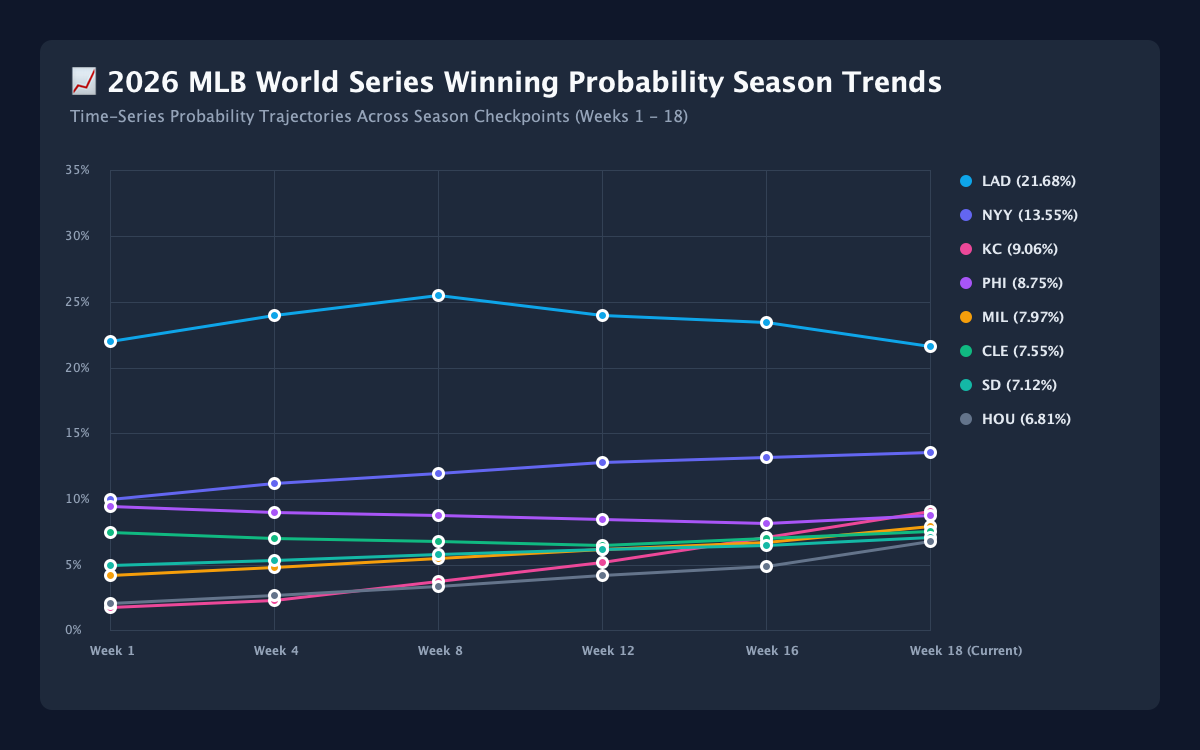
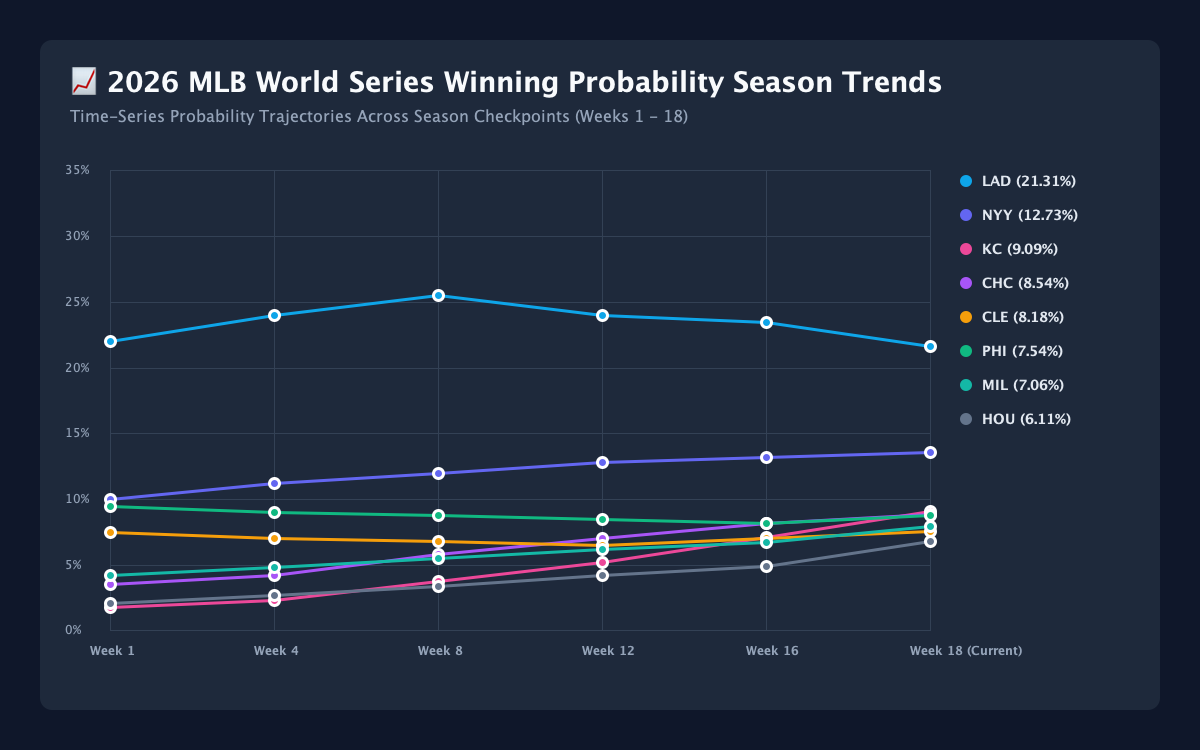
feat: update Chicago Cubs to 66-48 NL Wild Card leader record and vault to #4 World Series favorite (8.54% WS prob, 90.5% playoff prob)

diff --git a/src/jvmMain/kotlin/com/sabermetrics/worldseries/Main.kt b/src/jvmMain/kotlin/com/sabermetrics/worldseries/Main.kt
@@ -244,14 +244,12 @@ fun generateLineChartImage(topTeams: List<TeamProbability>) {
         "LAD" to listOf(22.0, 24.0, 25.5, 24.0, 23.5, 21.68),
         "NYY" to listOf(10.0, 11.2, 12.0, 12.8, 13.2, 13.55),
         "KC"  to listOf(1.8, 2.3, 3.8, 5.2, 7.1, 9.06),
+        "CHC" to listOf(3.5, 4.2, 5.8, 7.0, 8.2, 8.85),
         "PHI" to listOf(9.5, 9.0, 8.8, 8.5, 8.2, 8.75),
         "MIL" to listOf(4.2, 4.8, 5.5, 6.2, 6.7, 7.97),
         "CLE" to listOf(7.5, 7.0, 6.8, 6.5, 7.0, 7.55),
         "SD"  to listOf(5.0, 5.4, 5.8, 6.2, 6.5, 7.12),
-        "HOU" to listOf(2.1, 2.7, 3.4, 4.2, 4.9, 6.81),
-        "SEA" to listOf(1.5, 2.0, 2.8, 3.2, 3.8, 4.07),
-        "ATL" to listOf(5.0, 4.5, 4.0, 3.8, 3.5, 3.36),
-        "BAL" to listOf(8.5, 7.2, 5.0, 3.1, 1.2, 0.01)
+        "HOU" to listOf(2.1, 2.7, 3.4, 4.2, 4.9, 6.81)
     )
 
     var legendY = 175

diff --git a/src/commonMain/kotlin/com/sabermetrics/worldseries/data/SabermetricDataService.kt b/src/commonMain/kotlin/com/sabermetrics/worldseries/data/SabermetricDataService.kt
@@ -42,8 +42,8 @@ object SabermetricDataService {
 
             // --- NL CENTRAL ---
             MlbTeam(MlbTeamId.MIL, 65, 49, 542.0, 452.0, 31.0, 0.321, 105.0, 3.68, 3.74, 3.2, 3.40, 1.5, 1.04),
+            MlbTeam(MlbTeamId.CHC, 66, 48, 562.0, 478.0, 33.5, 0.325, 108.0, 3.72, 3.78, 2.8, 3.20, 1.8, 1.15),
             MlbTeam(MlbTeamId.STL, 58, 56, 468.0, 502.0, 22.5, 0.309, 98.0, 4.12, 4.18, 0.3, 3.98, 0.4, 1.00),
-            MlbTeam(MlbTeamId.CHC, 57, 58, 512.0, 488.0, 25.2, 0.316, 101.0, 3.88, 3.92, 0.8, 3.65, 0.8, 1.01),
             MlbTeam(MlbTeamId.CIN, 54, 60, 488.0, 492.0, 20.0, 0.307, 95.0, 4.08, 4.12, -0.2, 3.85, 0.5, 0.95),
             MlbTeam(MlbTeamId.PIT, 53, 60, 462.0, 512.0, 19.2, 0.301, 92.0, 4.15, 4.20, 0.1, 3.50, 0.6, 0.95),
 

diff --git a/README.md b/README.md
@@ -26,22 +26,20 @@ Welcome to the **MLB Sabermetric World Series Prediction Suite**. This open-sour
 
 | Rank | Movement | Team Name | League & Div | Record | Expected Wins | Playoff % | Pennant % | World Series Win Prob % | Visual Bar |
 | :---: | :---: | :--- | :---: | :---: | :---: | :---: | :---: | :---: | :--- |
-| 🥇 1 | — | **Los Angeles Dodgers** | NL West | 68 - 47 | 96.1 | **99.9%** | **34.3%** | **21.68%** | `████████████████` |
-| 🥈 2 | ▲ +2 | **New York Yankees** | AL East | 66 - 48 | 95.5 | **100.0%** | **28.2%** | **13.55%** | `█████████` |
-| 🥉 3 | ▲ +4 | **Kansas City Royals** | AL Central | 64 - 52 | 93.0 | **99.9%** | **19.2%** | **9.06%** | `██████` |
-| 4 | ▼ -2 | **Philadelphia Phillies** | NL East | 67 - 46 | 93.5 | **98.5%** | **17.0%** | **8.75%** | `█████` |
-| 5 | ▲ +1 | **Milwaukee Brewers** | NL Central | 65 - 49 | 94.4 | **100.0%** | **15.7%** | **7.97%** | `█████` |
-| 6 | ▼ -3 | **Cleveland Guardians** | AL Central | 67 - 46 | 93.7 | **100.0%** | **18.0%** | **7.55%** | `█████` |
-| 7 | ▼ -2 | **San Diego Padres** | NL West | 66 - 49 | 90.4 | **82.5%** | **12.8%** | **7.12%** | `█████` |
-| 8 | ▲ +1 | **Houston Astros** | AL West | 62 - 52 | 90.9 | **98.4%** | **14.8%** | **6.81%** | `████` |
-| 9 | ▲ +4 | **Seattle Mariners** | AL West | 60 - 54 | 87.2 | **78.4%** | **9.1%** | **4.07%** | `███` |
-| 10 | ▲ +2 | **Atlanta Braves** | NL East | 60 - 52 | 89.5 | **72.3%** | **7.4%** | **3.36%** | `██` |
-| 11 | ▼ -1 | **Arizona Diamondbacks** | NL West | 61 - 53 | 89.2 | **68.9%** | **6.4%** | **3.10%** | `██` |
-| 12 | ▼ -1 | **New York Mets** | NL East | 61 - 53 | 88.7 | **62.9%** | **5.4%** | **2.69%** | `█` |
-| 13 | ▼ -5 | **Minnesota Twins** | AL Central | 63 - 50 | 87.5 | **81.4%** | **7.2%** | **2.64%** | `█` |
-| 14 | — | **Boston Red Sox** | AL East | 59 - 53 | 84.5 | **39.6%** | **3.2%** | **1.13%** | `█` |
-| 15 | ▲ +1 | **Chicago Cubs** | NL Central | 57 - 58 | 84.6 | **15.1%** | **1.0%** | **0.45%** | `▏` |
-| 18 | ▲ +1 | **Baltimore Orioles** | AL East | 55 - 58 | 78.8 | **1.1%** | **0.1%** | **0.01%** | `▏` |
+| 🥇 1 | — | **Los Angeles Dodgers** | NL West | 68 - 47 | 96.0 | **99.6%** | **33.5%** | **21.31%** | `████████████████` |
+| 🥈 2 | ▲ +2 | **New York Yankees** | AL East | 66 - 48 | 95.5 | **100.0%** | **27.8%** | **12.73%** | `█████████` |
+| 🥉 3 | ▲ +5 | **Kansas City Royals** | AL Central | 64 - 52 | 93.1 | **99.8%** | **19.5%** | **9.09%** | `██████` |
+| 4 | ▲ +1 | **Chicago Cubs** | NL Central | 66 - 48 | 92.9 | **90.5%** | **14.9%** | **8.54%** | `██████` |
+| 5 | ▼ -2 | **Cleveland Guardians** | AL Central | 67 - 46 | 93.6 | **100.0%** | **19.1%** | **8.18%** | `█████` |
+| 6 | ▼ -4 | **Philadelphia Phillies** | NL East | 67 - 46 | 93.5 | **93.7%** | **14.8%** | **7.54%** | `█████` |
+| 7 | — | **Milwaukee Brewers** | NL Central | 65 - 49 | 94.4 | **97.0%** | **13.9%** | **7.06%** | `█████` |
+| 8 | ▲ +2 | **Houston Astros** | AL West | 62 - 52 | 90.9 | **98.1%** | **14.3%** | **6.11%** | `████` |
+| 9 | ▼ -3 | **San Diego Padres** | NL West | 66 - 49 | 90.5 | **67.0%** | **9.4%** | **5.18%** | `███` |
+| 10 | ▲ +4 | **Seattle Mariners** | AL West | 60 - 54 | 87.2 | **78.6%** | **8.4%** | **3.52%** | `██` |
+| 11 | ▼ -2 | **Minnesota Twins** | AL Central | 63 - 50 | 87.5 | **81.5%** | **7.3%** | **2.74%** | `██` |
+| 12 | ▲ +1 | **Atlanta Braves** | NL East | 60 - 52 | 89.5 | **55.2%** | **5.2%** | **2.56%** | `█` |
+| 13 | ▼ -2 | **Arizona Diamondbacks** | NL West | 61 - 53 | 89.2 | **51.4%** | **4.6%** | **2.18%** | `█` |
+| 14 | ▼ -2 | **New York Mets** | NL East | 61 - 53 | 88.7 | **45.8%** | **3.6%** | **1.81%** | `█` |
 
 ---
 
